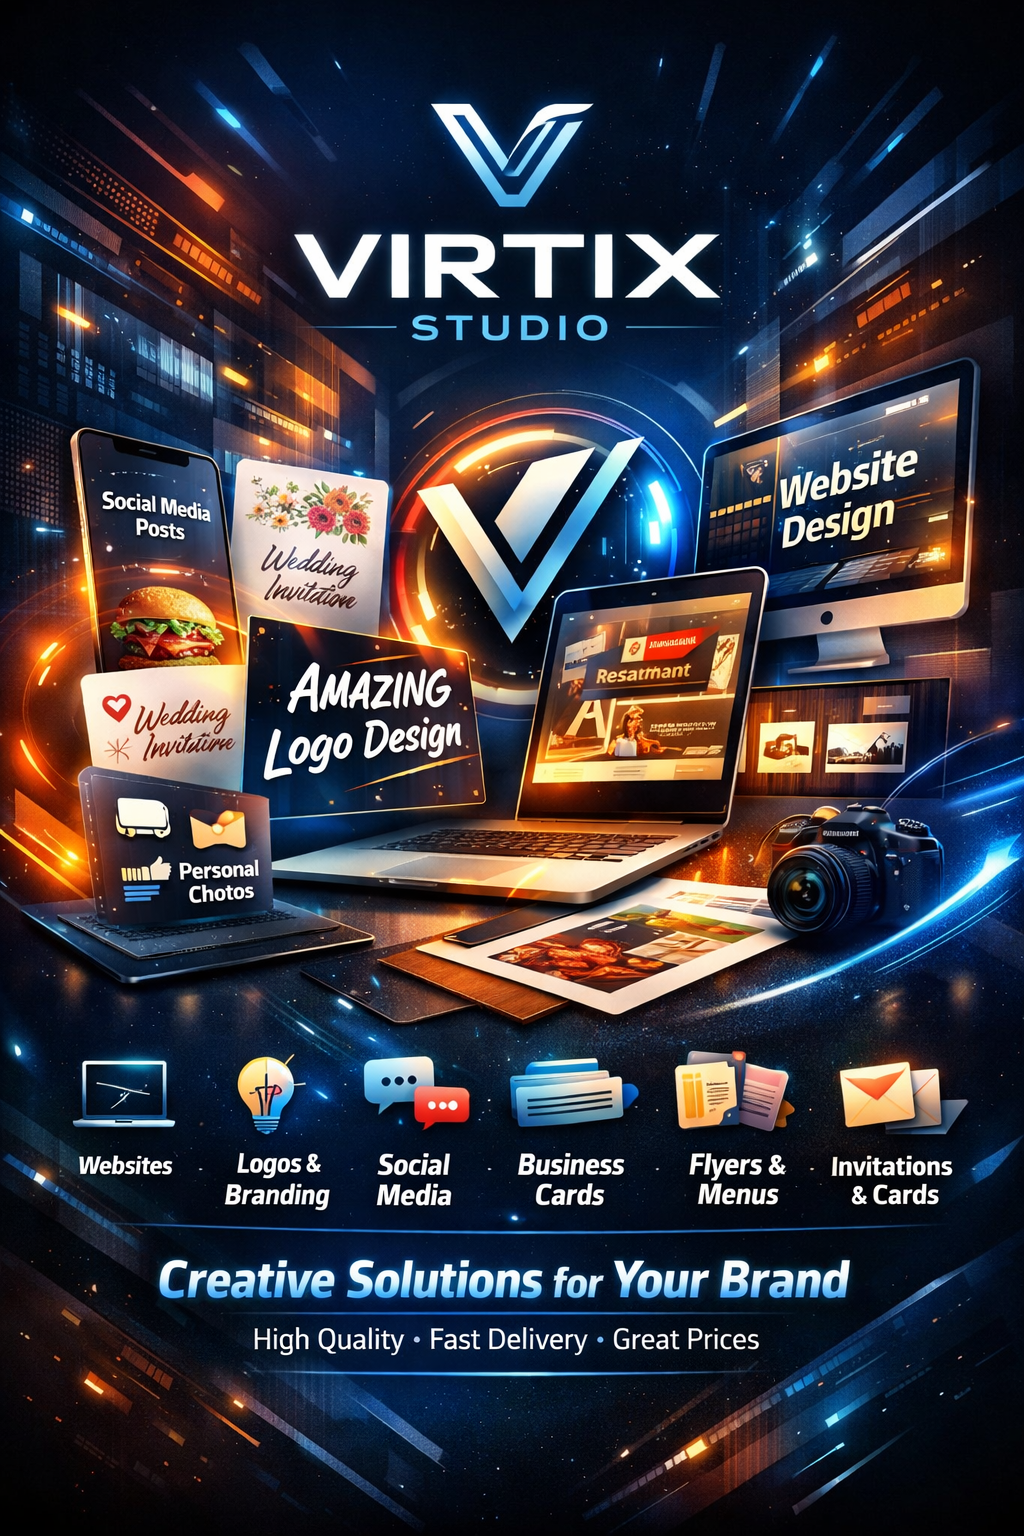
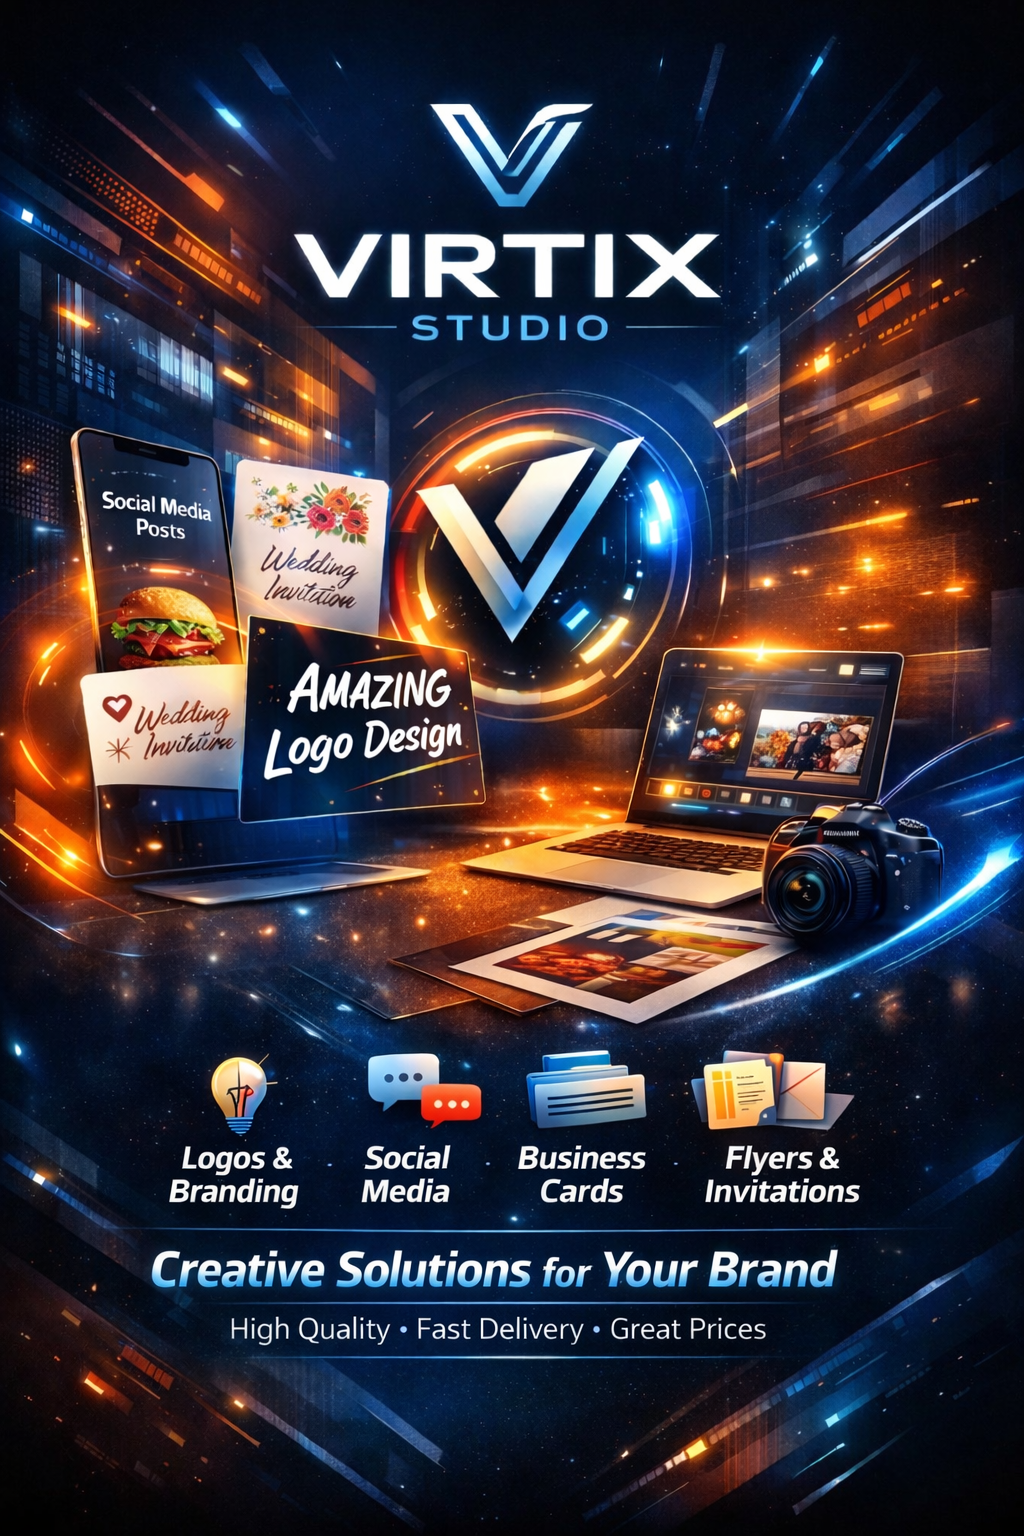
remove web services

diff --git a/src/components/Footer.tsx b/src/components/Footer.tsx
@@ -1,5 +1,5 @@
 import { motion } from "framer-motion";
-import {  Facebook, ArrowUpLeft } from "lucide-react";
+import { Facebook, ArrowUpLeft } from "lucide-react";
 
 const logoImg = "/logo.png";
 const facebookUrl = "https://www.facebook.com/share/14RuLDk5V8W/";
@@ -16,7 +16,6 @@ const quickLinks = [
 const serviceLinks = [
   "التصميم الجرافيكي",
   "الهوية البصرية",
-  "تطوير المواقع",
   "تصميم المطبوعات",
 ];
 
@@ -50,8 +49,7 @@ export const Footer = () => {
             </div>
 
             <p className="max-w-sm text-sm leading-relaxed text-white/60 font-cairo">
-              استوديو بصري يهتم بأن يخرج كل مشروع بشكل أقوى، أوضح، وأكثر
-              احترافية، من الهوية البصرية إلى المواقع والمحتوى الرقمي.
+              استوديو بصري يركز على تقديم أعمال قوية، واضحة، واحترافية في التصميمات والإعلانات والمحتوى الرقمي.
             </p>
 
             <div className="mt-6 flex gap-3">
@@ -150,29 +148,29 @@ export const Footer = () => {
 
               <div className="mt-5 space-y-3">
                 <a
-  href={whatsappUrl}
-  target="_blank"
-  rel="noopener noreferrer"
-  className="group flex items-center justify-between rounded-2xl 
+                  href={whatsappUrl}
+                  target="_blank"
+                  rel="noopener noreferrer"
+                  className="group flex items-center justify-between rounded-2xl 
   border border-[#25D366]/20 
   bg-[#25D366]/10 
   px-4 py-3 text-sm text-[#25D366] 
   transition-all duration-300 
   hover:bg-[#25D366]/20 hover:text-white hover:border-[#25D366]/40"
->
-  <span className="font-medium">واتساب</span>
+                >
+                  <span className="font-medium">واتساب</span>
 
-  <svg
-    xmlns="http://www.w3.org/2000/svg"
-    viewBox="0 0 32 32"
-    width="16"
-    height="16"
-    fill="currentColor"
-    className="transition-transform duration-300 group-hover:scale-110 group-hover:-rotate-6"
-  >
-    <path d="M16 .396C7.163.396 0 7.56 0 16.396c0 2.885.755 5.7 2.188 8.18L0 32l7.625-2.152a15.944 15.944 0 0 0 8.375 2.385c8.837 0 16-7.164 16-16S24.837.396 16 .396zm0 29.1a13.01 13.01 0 0 1-6.64-1.83l-.475-.28-4.52 1.275 1.207-4.405-.31-.455A12.93 12.93 0 0 1 3.39 16.396C3.39 9.28 8.96 3.71 16.075 3.71s12.685 5.57 12.685 12.686-5.57 12.685-12.685 12.685zm7.27-9.53c-.397-.198-2.35-1.158-2.714-1.29-.364-.133-.63-.198-.896.198-.264.396-1.027 1.29-1.26 1.554-.232.264-.463.297-.86.1-.397-.198-1.678-.618-3.195-1.97-1.18-1.052-1.977-2.35-2.21-2.746-.232-.396-.025-.61.173-.808.178-.177.397-.463.595-.694.198-.232.264-.396.396-.66.133-.264.067-.496-.033-.694-.1-.198-.896-2.158-1.227-2.954-.322-.77-.65-.665-.896-.678l-.763-.014c-.264 0-.694.1-1.058.496-.364.396-1.39 1.36-1.39 3.312s1.422 3.84 1.62 4.104c.198.264 2.8 4.276 6.787 5.997.948.41 1.688.654 2.266.837.952.303 1.82.26 2.507.158.765-.114 2.35-.96 2.683-1.886.33-.925.33-1.72.232-1.886-.1-.165-.364-.264-.76-.463z" />
-  </svg>
-</a>
+                  <svg
+                    xmlns="http://www.w3.org/2000/svg"
+                    viewBox="0 0 32 32"
+                    width="16"
+                    height="16"
+                    fill="currentColor"
+                    className="transition-transform duration-300 group-hover:scale-110 group-hover:-rotate-6"
+                  >
+                    <path d="M16 .396C7.163.396 0 7.56 0 16.396c0 2.885.755 5.7 2.188 8.18L0 32l7.625-2.152a15.944 15.944 0 0 0 8.375 2.385c8.837 0 16-7.164 16-16S24.837.396 16 .396zm0 29.1a13.01 13.01 0 0 1-6.64-1.83l-.475-.28-4.52 1.275 1.207-4.405-.31-.455A12.93 12.93 0 0 1 3.39 16.396C3.39 9.28 8.96 3.71 16.075 3.71s12.685 5.57 12.685 12.686-5.57 12.685-12.685 12.685zm7.27-9.53c-.397-.198-2.35-1.158-2.714-1.29-.364-.133-.63-.198-.896.198-.264.396-1.027 1.29-1.26 1.554-.232.264-.463.297-.86.1-.397-.198-1.678-.618-3.195-1.97-1.18-1.052-1.977-2.35-2.21-2.746-.232-.396-.025-.61.173-.808.178-.177.397-.463.595-.694.198-.232.264-.396.396-.66.133-.264.067-.496-.033-.694-.1-.198-.896-2.158-1.227-2.954-.322-.77-.65-.665-.896-.678l-.763-.014c-.264 0-.694.1-1.058.496-.364.396-1.39 1.36-1.39 3.312s1.422 3.84 1.62 4.104c.198.264 2.8 4.276 6.787 5.997.948.41 1.688.654 2.266.837.952.303 1.82.26 2.507.158.765-.114 2.35-.96 2.683-1.886.33-.925.33-1.72.232-1.886-.1-.165-.364-.264-.76-.463z" />
+                  </svg>
+                </a>
 
                 <a
                   href={facebookUrl}

diff --git a/src/components/PortfolioSection.tsx b/src/components/PortfolioSection.tsx
@@ -10,7 +10,6 @@ const categories = [
   { id: "photo-transformation", name: "تحويل الصور" },
   { id: "print-design", name: "التصميمات المطبوعة" },
   { id: "social-media", name: "السوشيال ميديا" },
-  { id: "web-design", name: "تصميم المواقع" },
 ];
 
 const portfolioItems = [
@@ -92,24 +91,6 @@ const portfolioItems = [
     image: "/Portfolio/Social Media/Koshary.jpg",
     category: "social-media",
     title: "Koshary Campaign",
-  },
-  {
-    id: 14,
-    image: "/Portfolio/Web Design/Baber shop.png",
-    category: "web-design",
-    title: "Barber Shop Website",
-  },
-  {
-    id: 15,
-    image: "/Portfolio/Web Design/Clinic ar.png",
-    category: "web-design",
-    title: "Clinic Arabic Website",
-  },
-  {
-    id: 16,
-    image: "/Portfolio/Web Design/Clinic Mocup.png",
-    category: "web-design",
-    title: "Clinic Mockup",
   },
 ];
 

diff --git a/src/components/ServicesSection.tsx b/src/components/ServicesSection.tsx
@@ -1,7 +1,6 @@
 import { motion } from "framer-motion";
 import {
   Palette,
-  Globe,
   Fingerprint,
   Megaphone,
   Sparkles,
@@ -26,13 +25,6 @@ const services = [
   },
   {
     number: "03",
-    icon: Globe,
-    title: "تطوير المواقع",
-    desc: "مواقع حديثة وسريعة ومتجاوبة، مصممة لتعرض البراند بشكل احترافي على كل الأجهزة.",
-    points: ["Landing Pages", "مواقع شركات", "أداء وتجربة استخدام"],
-  },
-  {
-    number: "04",
     icon: Megaphone,
     title: "التسويق الرقمي",
     desc: "محتوى وتسويق بصري يدعم الانتشار، ويجعل البراند أكثر حضورًا أمام الجمهور المستهدف.",

diff --git a/index.html b/index.html
@@ -4,7 +4,8 @@
     <meta charset="UTF-8" />
     <meta name="viewport" content="width=device-width, initial-scale=1.0" />
     <title>Virtix Studio | استوديو تصميم رقمي احترافي</title>
-    <meta name="description" content="Virtix Studio - نحول  أحلامك  إلى هويات بصرية مذهلة. تصميم جرافيكي، تطوير مواقع، هوية بصرية، تسويق رقمي." />
+    <meta name="description" content="Virtix Studio - استوديو تصميم رقمي احترافي | نحول  أحلامك  إلى هويات بصرية مذهلة" />
+
     <meta name="author" content="Virtix Studio" />
 
     <meta property="og:title" content="Virtix Studio | استوديو تصميم رقمي احترافي" />

diff --git a/src/components/OrderSection.tsx b/src/components/OrderSection.tsx
@@ -11,7 +11,6 @@ import { Reveal } from "./Reveal";
 
 const serviceTypes = [
   "تصميم جرافيكي",
-  "تطوير موقع",
   "هوية بصرية",
   "تصميم مطبوعات",
   "إدارة محتوى سوشيال ميديا",

diff --git a/README.md b/README.md
@@ -1,12 +1,12 @@
-# 🎨 Virtix Studio — Digital Design Agency Website
+# 🎨 Virtix Studio — Digital Design Agency
 
-A modern, high-performance landing page for a digital design studio, built with the latest frontend technologies and crafted with a strong focus on visual experience, smooth interactions, and conversion-driven structure.
+A modern, high-performance portfolio site for a digital design studio, built with the latest design technologies and crafted with a strong focus on visual experience, smooth interactions, and conversion-driven structure.
 
 ---
 
 ## ✨ Overview
 
-Virtix Studio is a premium digital design agency website designed to showcase creative work, services, and provide a seamless way for clients to request projects directly via WhatsApp.
+Virtix Studio is a premium digital design agency designed to showcase creative work, services, and provide a seamless way for clients to request projects directly via WhatsApp.
 
 The project focuses on:
 
@@ -79,7 +79,6 @@ Organized by categories:
 * Invitations
 * Social Media
 * Print Design
-* Web Design
 * Photo Transformation
 
 ---
